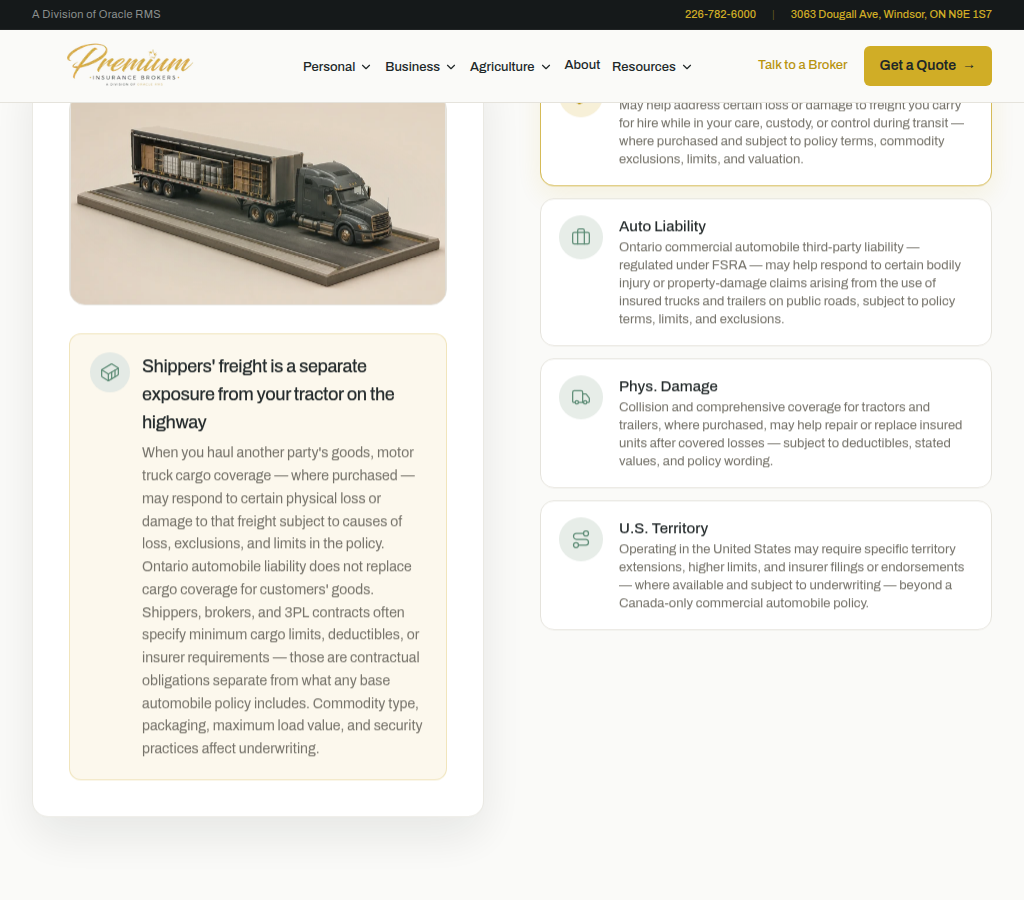
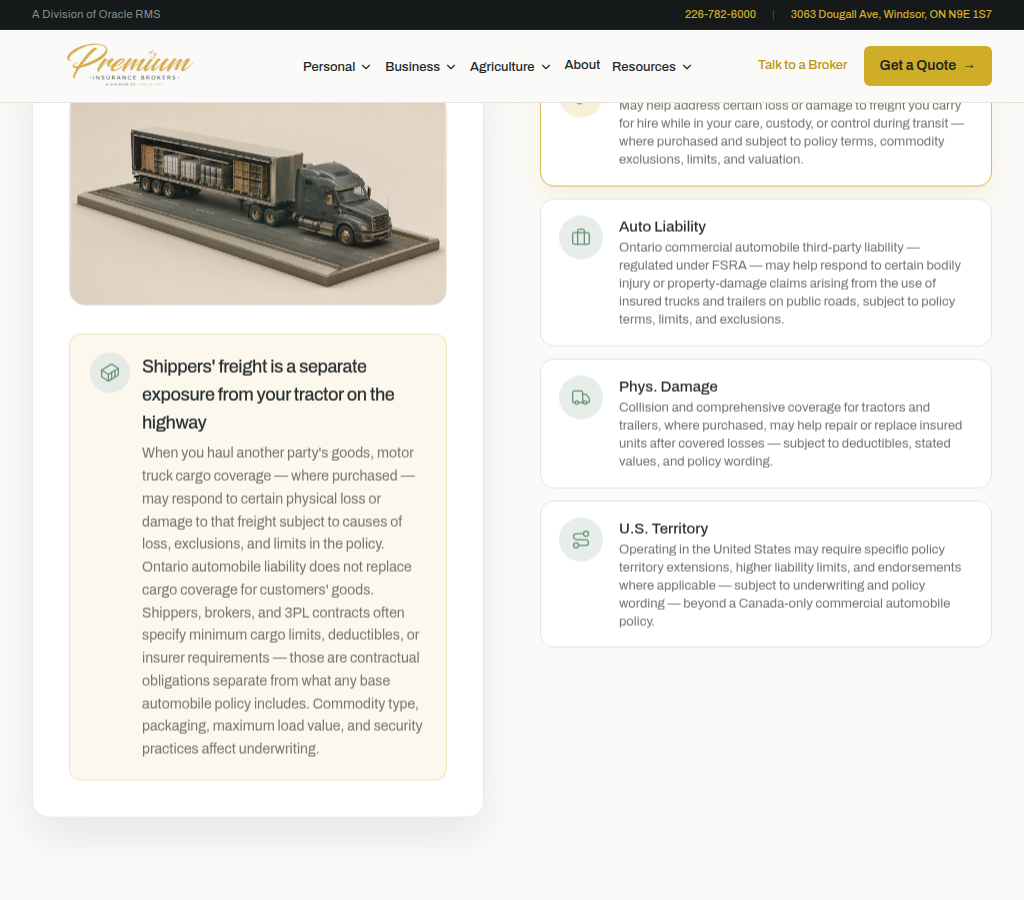
fix(d3): transportation precision copy — filings, completed ops, title, commodities
Minimum corrections on trucking, dump truck, and cargo/freight routes:
- Remove vague "insurer filings" from U.S./cross-border trucking copy
- Replace completed-operations misuse in dump truck jobsite passages
- Rename Explorer tab to "Load & Debris Exposure" (id preserved)
- Hedge cargo commodity scheduling and aggregate language

Optional stable coverage card id override preserves cargo-debris-coverage
mapping. All three routes remain grade A with 0 HIGH/MEDIUM flags.

Isolated worktree fix on cursor/coverage-explorer-ux-v2-2026-09-07.
STOP FOR OWNER REVIEW — no merge/deploy.

diff --git a/src/data/commercial-industries.ts b/src/data/commercial-industries.ts
@@ -259,8 +259,8 @@ export const industryPages: IndustryPageContent[] = [
         title: "Cross-Border Coverage",
         shortLabel: "U.S. Territory",
         description:
-          "Operating in the United States may require specific territory extensions, higher limits, and insurer filings or endorsements — where available and subject to underwriting — beyond a Canada-only commercial automobile policy.",
-        detailTitle: "U.S. lanes change territory, limits, and filings — not a generic add-on label",
+          "Operating in the United States may require specific policy territory extensions, higher liability limits, and endorsements where applicable — subject to underwriting and policy wording — beyond a Canada-only commercial automobile policy.",
+        detailTitle: "U.S. lanes change territory, limits, and underwriting requirements — not a generic add-on label",
         detailDescription:
           "Cross-border hauling is not a single universal product name — it reflects how your Ontario commercial automobile program extends territory, limits, and insurer requirements for U.S. operations. Shippers and brokers may require proof of U.S.-adequate limits or specific insurer ratings contractually. Cargo policies may also contain territorial limits. Disclose every state or region you enter, how often, and whether loads originate or terminate in the U.S. so your broker can coordinate automobile and cargo wording — do not assume a Canada-only policy automatically follows the truck south of the border.",
         icon: Route,
@@ -318,7 +318,7 @@ export const industryPages: IndustryPageContent[] = [
       {
         question: "Does operating in the U.S. change my insurance?",
         answer:
-          "It can. U.S. operations may require territory extensions, higher automobile liability limits, and specific insurer filings or endorsements — depending on your carrier, policy wording, and contracts. Cargo policies may also limit or exclude certain territories. Tell your broker which states you enter, how often, and what shippers require before assuming a Canada-only policy covers southbound loads.",
+          "It can. U.S. operations may require territory extensions, higher automobile liability limits, and specific policy endorsements — depending on your carrier, policy wording, and shipper or broker contracts. Cargo policies may also limit or exclude certain territories. Tell your broker which states you enter, how often, and what shippers require before assuming a Canada-only policy covers southbound loads.",
       },
       {
         question: "Are trailers automatically covered with the tractor?",
@@ -1126,7 +1126,7 @@ export const industryPages: IndustryPageContent[] = [
           "Ontario commercial automobile third-party liability may help respond to certain bodily injury or property-damage claims arising from the use of your dump truck on public roads — subject to FSRA-regulated policy terms, limits, and exclusions.",
         detailTitle: "On the highway is automobile liability — jobsites may be different",
         detailDescription:
-          "Collisions, property damage, and injury claims arising while your dump truck travels on public roads are typically evaluated under commercial automobile liability — regulated separately from commercial general liability. Loading zones, active construction sites, tipping operations, or debris spills may involve different policy triggers depending on whether the loss arises from automobile use, completed operations, or pollution exclusions. Do not assume automobile liability automatically covers every incident that happens while dumping or entering a jobsite — confirm how your policies define covered automobile use and operations.",
+          "Collisions, property damage, and injury claims arising while your dump truck travels on public roads are typically evaluated under commercial automobile liability — regulated separately from commercial general liability. Loading zones, active construction sites, tipping operations, or debris spills may involve different policy triggers depending on whether the loss arises from automobile use, CGL or operations liability, or pollution exclusions — where applicable under policy wording. Do not assume automobile liability automatically covers every incident that happens while dumping or entering a jobsite — confirm how your policies define covered automobile use and operations.",
         icon: Briefcase,
       },
       {
@@ -1140,7 +1140,8 @@ export const industryPages: IndustryPageContent[] = [
         icon: Truck,
       },
       {
-        title: "Cargo & Debris Coverage",
+        id: "cargo-debris-coverage",
+        title: "Load & Debris Exposure",
         shortLabel: "Load / Debris",
         description:
           "May help address certain loss to aggregate, soil, asphalt, or other material you haul — or debris falling from the vehicle — where purchased and subject to policy terms, commodities, and whether you haul for others or your own material.",
@@ -1169,7 +1170,7 @@ export const industryPages: IndustryPageContent[] = [
       {
         title: "Road exposure vs. jobsite and dumping operations",
         description:
-          "Public-road collisions are automobile exposures. Tipping on uneven ground, contact with utilities, or property damage while maneuvering on a construction site may implicate different policy sections or exclusions — including completed operations under CGL where applicable. Loading and unloading at quarries, asphalt plants, and demolition sites each carry distinct third-party property and injury exposure.",
+          "Public-road collisions are automobile exposures. Tipping on uneven ground, contact with utilities, or property damage while maneuvering on a construction site may implicate different policy sections or exclusions — including CGL or operations liability where applicable under policy wording. Loading and unloading at quarries, asphalt plants, and demolition sites each carry distinct third-party property and injury exposure.",
       },
       {
         title: "Material type and seasonal operations",

diff --git a/src/data/product-pages/commercial-products-industry.ts b/src/data/product-pages/commercial-products-industry.ts
@@ -94,7 +94,7 @@ export const commercialProductIndustryPages: ProductPageContent[] = [
       {
         title: "Commodity, valuation, and limits",
         description:
-          "Insurers schedule commodities — general freight, electronics, alcohol, pharmaceuticals, metals, and others — with different rates and exclusions. Valuation may be actual cash value, invoice cost, or agreed value depending on wording. Maximum per-load limits and annual aggregates must align with your largest contracts — underinsuring high-value lanes creates balance-bill exposure.",
+          "Insurers evaluate commodities — such as general freight, electronics, alcohol, pharmaceuticals, and metals — using different underwriting rules, rates, restrictions, sublimits, and exclusions. Valuation provisions, per-load limits, sublimits, and aggregates — where applicable in your policy — depend on policy wording and form. Confirm that your stated limits align with your largest contracts — underinsuring high-value lanes can create balance-bill exposure.",
       },
       {
         title: "Theft, security, and unattended vehicles",

diff --git a/src/lib/buildPilotProductConfig.ts b/src/lib/buildPilotProductConfig.ts
@@ -34,6 +34,7 @@ type CoverageInput = CoverageCard & {
   shortLabel?: string;
   detailTitle?: string;
   detailDescription?: string;
+  id?: string;
 };
 
 type BuildPilotProductConfigInput = {
@@ -84,7 +85,7 @@ function slugify(value: string): string {
 
 function toCoverageItems(items: CoverageInput[]): ProductCoverageItem[] {
   return items.map((item) => {
-    const id = slugify(item.title);
+    const id = item.id ?? slugify(item.title);
     const shortLabel = item.shortLabel ?? item.title.split(" ")[0] ?? item.title;
     const detail = item.detail ?? item.description;
     return {

diff --git a/src/components/LineInsurancePage.tsx b/src/components/LineInsurancePage.tsx
@@ -15,6 +15,8 @@ export type CoverageCard = {
   title: string;
   description: string;
   icon: LucideIcon;
+  /** Optional stable Explorer tab id; defaults to slugified title when omitted. */
+  id?: string;
   /** Optional compact label for Coverage Explorer selector tabs. */
   shortLabel?: string;
   /** Optional richer title for Coverage Explorer detail panel (left under image). */

diff --git a/docs/d3-transportation-batch-2026-09-08.md b/docs/d3-transportation-batch-2026-09-08.md
@@ -329,6 +329,128 @@ Explorer UX v2 regression (daycare, restaurant, contractors): **pass**
 
 ---
 
+## Precision fix addendum — 2026-09-09
+
+**Branch:** `cursor/coverage-explorer-ux-v2-2026-09-07`  
+**Baseline commit:** `af2e96d`  
+**Precision fix commit:** `d79ae94`
+**Isolated worktree:** `/tmp/PREMIUM_WEBSITE-d3-transportation`  
+**Primary worktree untouched:** `cursor/carrier-logos-7402` @ `90f5bbf` (unrelated uncommitted changes preserved)
+
+### Scope
+
+Minimum copy corrections on three transportation routes only. No carrier/Partners/Claims work. No Explorer architecture change beyond optional stable `id` override on coverage cards (preserves `cargo-debris-coverage` when visitor-facing title changes).
+
+### Fixes applied
+
+| # | Route | Fix |
+|---|-------|-----|
+| 1 | Trucking | Removed vague "insurer filings" from U.S./cross-border copy; softened to territory, limits, endorsements, underwriting requirements |
+| 2 | Dump Truck | Replaced "completed operations" in active tipping/jobsite passages with "CGL or operations liability" |
+| 3 | Dump Truck Explorer | Title `Cargo & Debris Coverage` → **`Load & Debris Exposure`**; id `cargo-debris-coverage` preserved |
+| 4 | Cargo/Freight | Commodity/valuation/limits consideration hedged — no universal scheduling or annual aggregate implication |
+
+### Route grades (post-fix)
+
+| Route | Grade | HIGH | MEDIUM | LOW |
+|-------|-------|------|--------|-----|
+| Trucking | **A** | 0 | 0 | 0 |
+| Dump Truck | **A** | 0 | 0 | 0 |
+| Cargo/Freight | **A** | 0 | 0 | 0 |
+
+**Site total:** A **16** · B **16** · C **18** · D **8** (unchanged from post-D3 batch)
+
+### Validation
+
+| Check | Result |
+|-------|--------|
+| BUILD | **PASS** |
+| TSC (`npx tsc --noEmit`) | **PASS** |
+| CONTENT AUDIT | **PASS** |
+| EXPLORER V2 REGRESSION | **PASS** |
+| D3 TRANSPORTATION VERIFIER | **PASS** |
+| FROZEN ROUTES UNCHANGED | **YES** |
+
+### Explorer integrity
+
+| Route | States before → after | IDs changed | Image mappings changed |
+|-------|----------------------|-------------|------------------------|
+| Trucking | 4 → 4 | No | No |
+| Dump Truck | 4 → 4 | No | No |
+| Cargo/Freight | 4 → 4 | No | No |
+
+**State IDs (unchanged):**
+
+- Trucking: `cargo-insurance`, `liability-coverage`, `physical-damage`, `cross-border-coverage`
+- Dump Truck: `commercial-auto-liability`, `physical-damage`, `cargo-debris-coverage`, `non-trucking-liability`
+- Cargo/Freight: `motor-truck-cargo`, `carrier-liability`, `refrigerated-cargo`, `contingent-cargo`
+
+| Check | Result |
+|-------|--------|
+| Dump Truck ID `cargo-debris-coverage` unchanged | **YES** |
+| Dump Truck title now "Load & Debris Exposure" | **YES** |
+| Restaurant custom behavior touched | **NO** |
+| Contractors custom behavior touched | **NO** |
+
+### Literal post-fix factual gate
+
+#### 1. TRUCKING — changed U.S./cross-border field(s)
+
+**FIELD PATH:** `commercial-industries.ts` → `trucking-insurance` → `coverageTypes[3].description`  
+**COMPLETE CURRENT VALUE:**  
+Operating in the United States may require specific policy territory extensions, higher liability limits, and endorsements where applicable — subject to underwriting and policy wording — beyond a Canada-only commercial automobile policy.
+
+**FIELD PATH:** `commercial-industries.ts` → `trucking-insurance` → `coverageTypes[3].detailTitle`  
+**COMPLETE CURRENT VALUE:**  
+U.S. lanes change territory, limits, and underwriting requirements — not a generic add-on label
+
+**FIELD PATH:** `commercial-industries.ts` → `trucking-insurance` → `faqItems[2].answer`  
+**COMPLETE CURRENT VALUE:**  
+It can. U.S. operations may require territory extensions, higher automobile liability limits, and specific policy endorsements — depending on your carrier, policy wording, and shipper or broker contracts. Cargo policies may also limit or exclude certain territories. Tell your broker which states you enter, how often, and what shippers require before assuming a Canada-only policy covers southbound loads.
+
+#### 2. DUMP TRUCK — road/jobsite consideration
+
+**FIELD PATH:** `commercial-industries.ts` → `dump-truck-insurance` → `considerations[1].description`  
+**COMPLETE CURRENT VALUE:**  
+Public-road collisions are automobile exposures. Tipping on uneven ground, contact with utilities, or property damage while maneuvering on a construction site may implicate different policy sections or exclusions — including CGL or operations liability where applicable under policy wording. Loading and unloading at quarries, asphalt plants, and demolition sites each carry distinct third-party property and injury exposure.
+
+#### 3. DUMP TRUCK — Explorer detail (commercial auto liability state)
+
+**FIELD PATH:** `commercial-industries.ts` → `dump-truck-insurance` → `coverageTypes[0].detailDescription`  
+**COMPLETE CURRENT VALUE:**  
+Collisions, property damage, and injury claims arising while your dump truck travels on public roads are typically evaluated under commercial automobile liability — regulated separately from commercial general liability. Loading zones, active construction sites, tipping operations, or debris spills may involve different policy triggers depending on whether the loss arises from automobile use, CGL or operations liability, or pollution exclusions — where applicable under policy wording. Do not assume automobile liability automatically covers every incident that happens while dumping or entering a jobsite — confirm how your policies define covered automobile use and operations.
+
+#### 4. DUMP TRUCK — Explorer title
+
+**FIELD PATH:** `commercial-industries.ts` → `dump-truck-insurance` → `coverageTypes[2].id`  
+**COMPLETE CURRENT VALUE:**  
+cargo-debris-coverage
+
+**FIELD PATH:** `commercial-industries.ts` → `dump-truck-insurance` → `coverageTypes[2].title`  
+**COMPLETE CURRENT VALUE:**  
+Load & Debris Exposure
+
+**FIELD PATH:** `commercial-industries.ts` → `dump-truck-insurance` → `coverageTypes[2].shortLabel`  
+**COMPLETE CURRENT VALUE:**  
+Load / Debris
+
+#### 5. CARGO/FREIGHT — commodity/valuation/limits field
+
+**FIELD PATH:** `commercial-products-industry.ts` → `cargo-freight-insurance` → `considerations[2].description`  
+**COMPLETE CURRENT VALUE:**  
+Insurers evaluate commodities — such as general freight, electronics, alcohol, pharmaceuticals, and metals — using different underwriting rules, rates, restrictions, sublimits, and exclusions. Valuation provisions, per-load limits, sublimits, and aggregates — where applicable in your policy — depend on policy wording and form. Confirm that your stated limits align with your largest contracts — underinsuring high-value lanes can create balance-bill exposure.
+
+### Prohibited-term scan (three routes)
+
+| Term | Present |
+|------|---------|
+| MCS-90 anywhere in the 3 routes | **NO** |
+| BMC-91 anywhere in the 3 routes | **NO** |
+| "insurer filings" in trucking visitor copy | **NO** |
+| "completed operations" in corrected active tipping/jobsite passages | **NO** |
+
+---
+
 ## Stop gates (repeat)
 
 - **NO MERGE · NO DEPLOY · NO VERCEL PROMOTION**

diff --git a/docs/product-content-audit-2026-09-07.md b/docs/product-content-audit-2026-09-07.md
@@ -43,7 +43,7 @@
 | /builders-developers-insurance/ | 380 | 4 / specific (good) | No | 5 | Yes | 1 | Windsor-Essex-primary | **D** |
 | /builders-risk-insurance/ | 292 | 4 / specific/hedged (strong) | No | 4 | Yes | 2 | Windsor-Essex-primary | **D** |
 | /business-interruption-insurance/ | 395 | 4 / specific/hedged (strong) | Yes (66w, moderate) | 4 | Yes | 0 | Windsor-Essex-primary | **C** |
-| /cargo-freight-insurance/ | 1117 | 4 / specific/hedged (strong) | Yes (376w, specific/useful) | 5 | Yes | 0 | Windsor-Essex + Ontario | **A** |
+| /cargo-freight-insurance/ | 1127 | 4 / specific/hedged (strong) | Yes (386w, specific/useful) | 5 | Yes | 0 | Windsor-Essex + Ontario | **A** |
 | /commercial-auto-insurance/ | 323 | 4 / specific/hedged (strong) | No | 4 | Yes | 0 | Windsor-Essex-primary | **C** |
 | /commercial-insurance/ | 283 | 0 / none | No | 5 | No — Shares 2+ FAQ pattern with auto-insurance | 0 | Windsor-Essex-primary | **C** |
 | /commercial-property-insurance/ | 367 | 4 / specific (good) | No | 6 | No — Shares 2+ FAQ pattern with auto-insurance | 0 | Windsor-Essex-primary | **C** |
@@ -56,7 +56,7 @@
 | /cyber-insurance/ | 409 | 4 / specific/hedged (strong) | Yes (67w, moderate) | 4 | Yes | 0 | Windsor-Essex-primary | **B** |
 | /daycare-private-school-insurance/ | 956 | 6 / specific/hedged (strong) | Yes (186w, moderate) | 5 | Yes | 0 | Windsor-Essex + Ontario | **A** |
 | /directors-officers-insurance/ | 331 | 4 / specific/hedged (strong) | Yes (70w, moderate) | 4 | Yes | 1 | Windsor-Essex-primary | **D** |
-| /dump-truck-insurance/ | 1072 | 4 / specific/hedged (strong) | Yes (319w, specific/useful) | 5 | Yes | 0 | Windsor-Essex + Ontario | **A** |
+| /dump-truck-insurance/ | 1075 | 4 / specific/hedged (strong) | Yes (322w, specific/useful) | 5 | Yes | 0 | Windsor-Essex + Ontario | **A** |
 | /employment-practices-liability-insurance/ | 227 | 4 / specific (good) | No | 4 | Yes | 1 | Windsor-Essex-primary | **D** |
 | /event-liability-insurance/ | 1094 | 4 / specific/hedged (strong) | Yes (329w, specific/useful) | 5 | Yes | 0 | Windsor-Essex-primary | **A** |
 | /farm-insurance/ | 332 | 4 / specific (good) | No | 4 | Yes | 0 | Windsor-Essex-primary (local) | **C** |
@@ -93,7 +93,7 @@
 | /small-business-insurance/ | 399 | 4 / specific/hedged (strong) | Yes (63w, moderate) | 4 | Yes | 0 | Windsor-Essex-primary | **C** |
 | /tenant-insurance/ | 519 | 4 / specific (good) | Yes (81w, moderate) | 4 | Yes | 0 | Windsor-Essex + Ontario | **B** |
 | /travel-insurance/ | 540 | 4 / specific/hedged (strong) | Yes (109w, specific/useful) | 4 | Yes | 0 | Windsor-Essex-primary | **B** |
-| /trucking-insurance/ | 1241 | 4 / specific/hedged (strong) | Yes (440w, specific/useful) | 5 | Yes | 0 | Windsor-Essex + Ontario | **A** |
+| /trucking-insurance/ | 1244 | 4 / specific/hedged (strong) | Yes (440w, specific/useful) | 5 | Yes | 0 | Windsor-Essex + Ontario | **A** |
 | /warehousing-insurance/ | 1034 | 4 / specific/hedged (strong) | Yes (306w, specific/useful) | 5 | Yes | 0 | Windsor-Essex-primary | **A** |
 
 **Word count scope:** Hero/intro (`heroLead`, `heroSupporting`, trust band), coverage intro + card descriptions/details, practical considerations, FAQ Q&A. Excludes nav, footer, broker-story boilerplate, related-products rail, and final CTA chrome.
